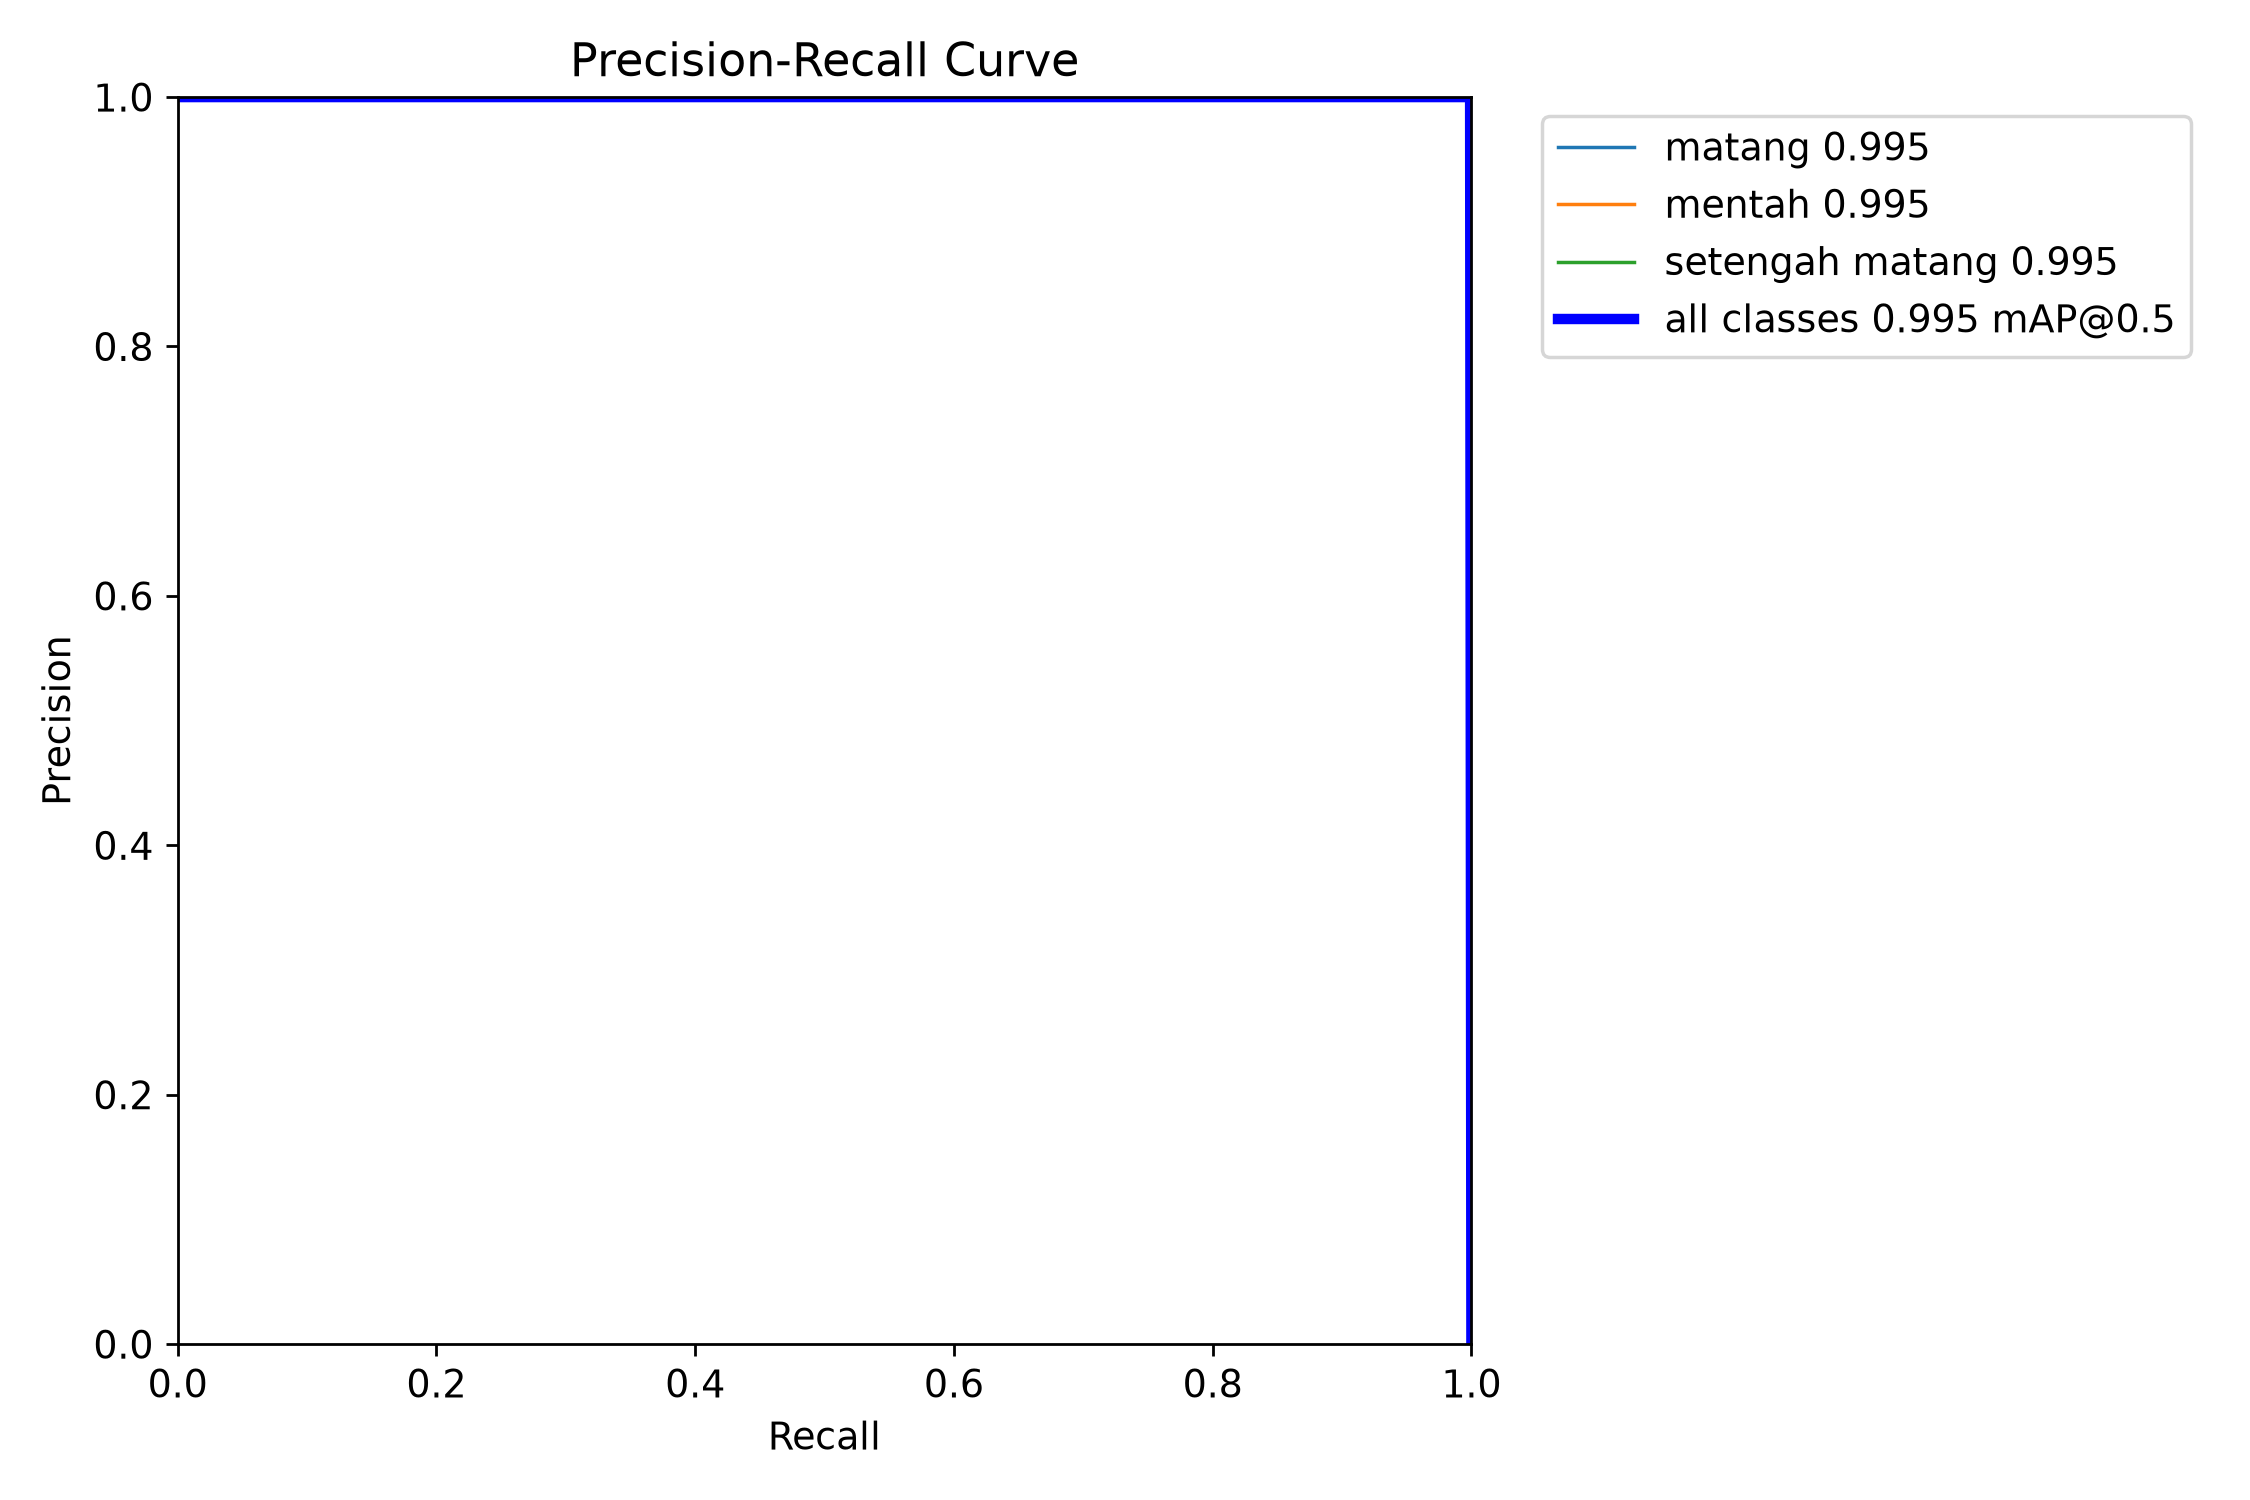
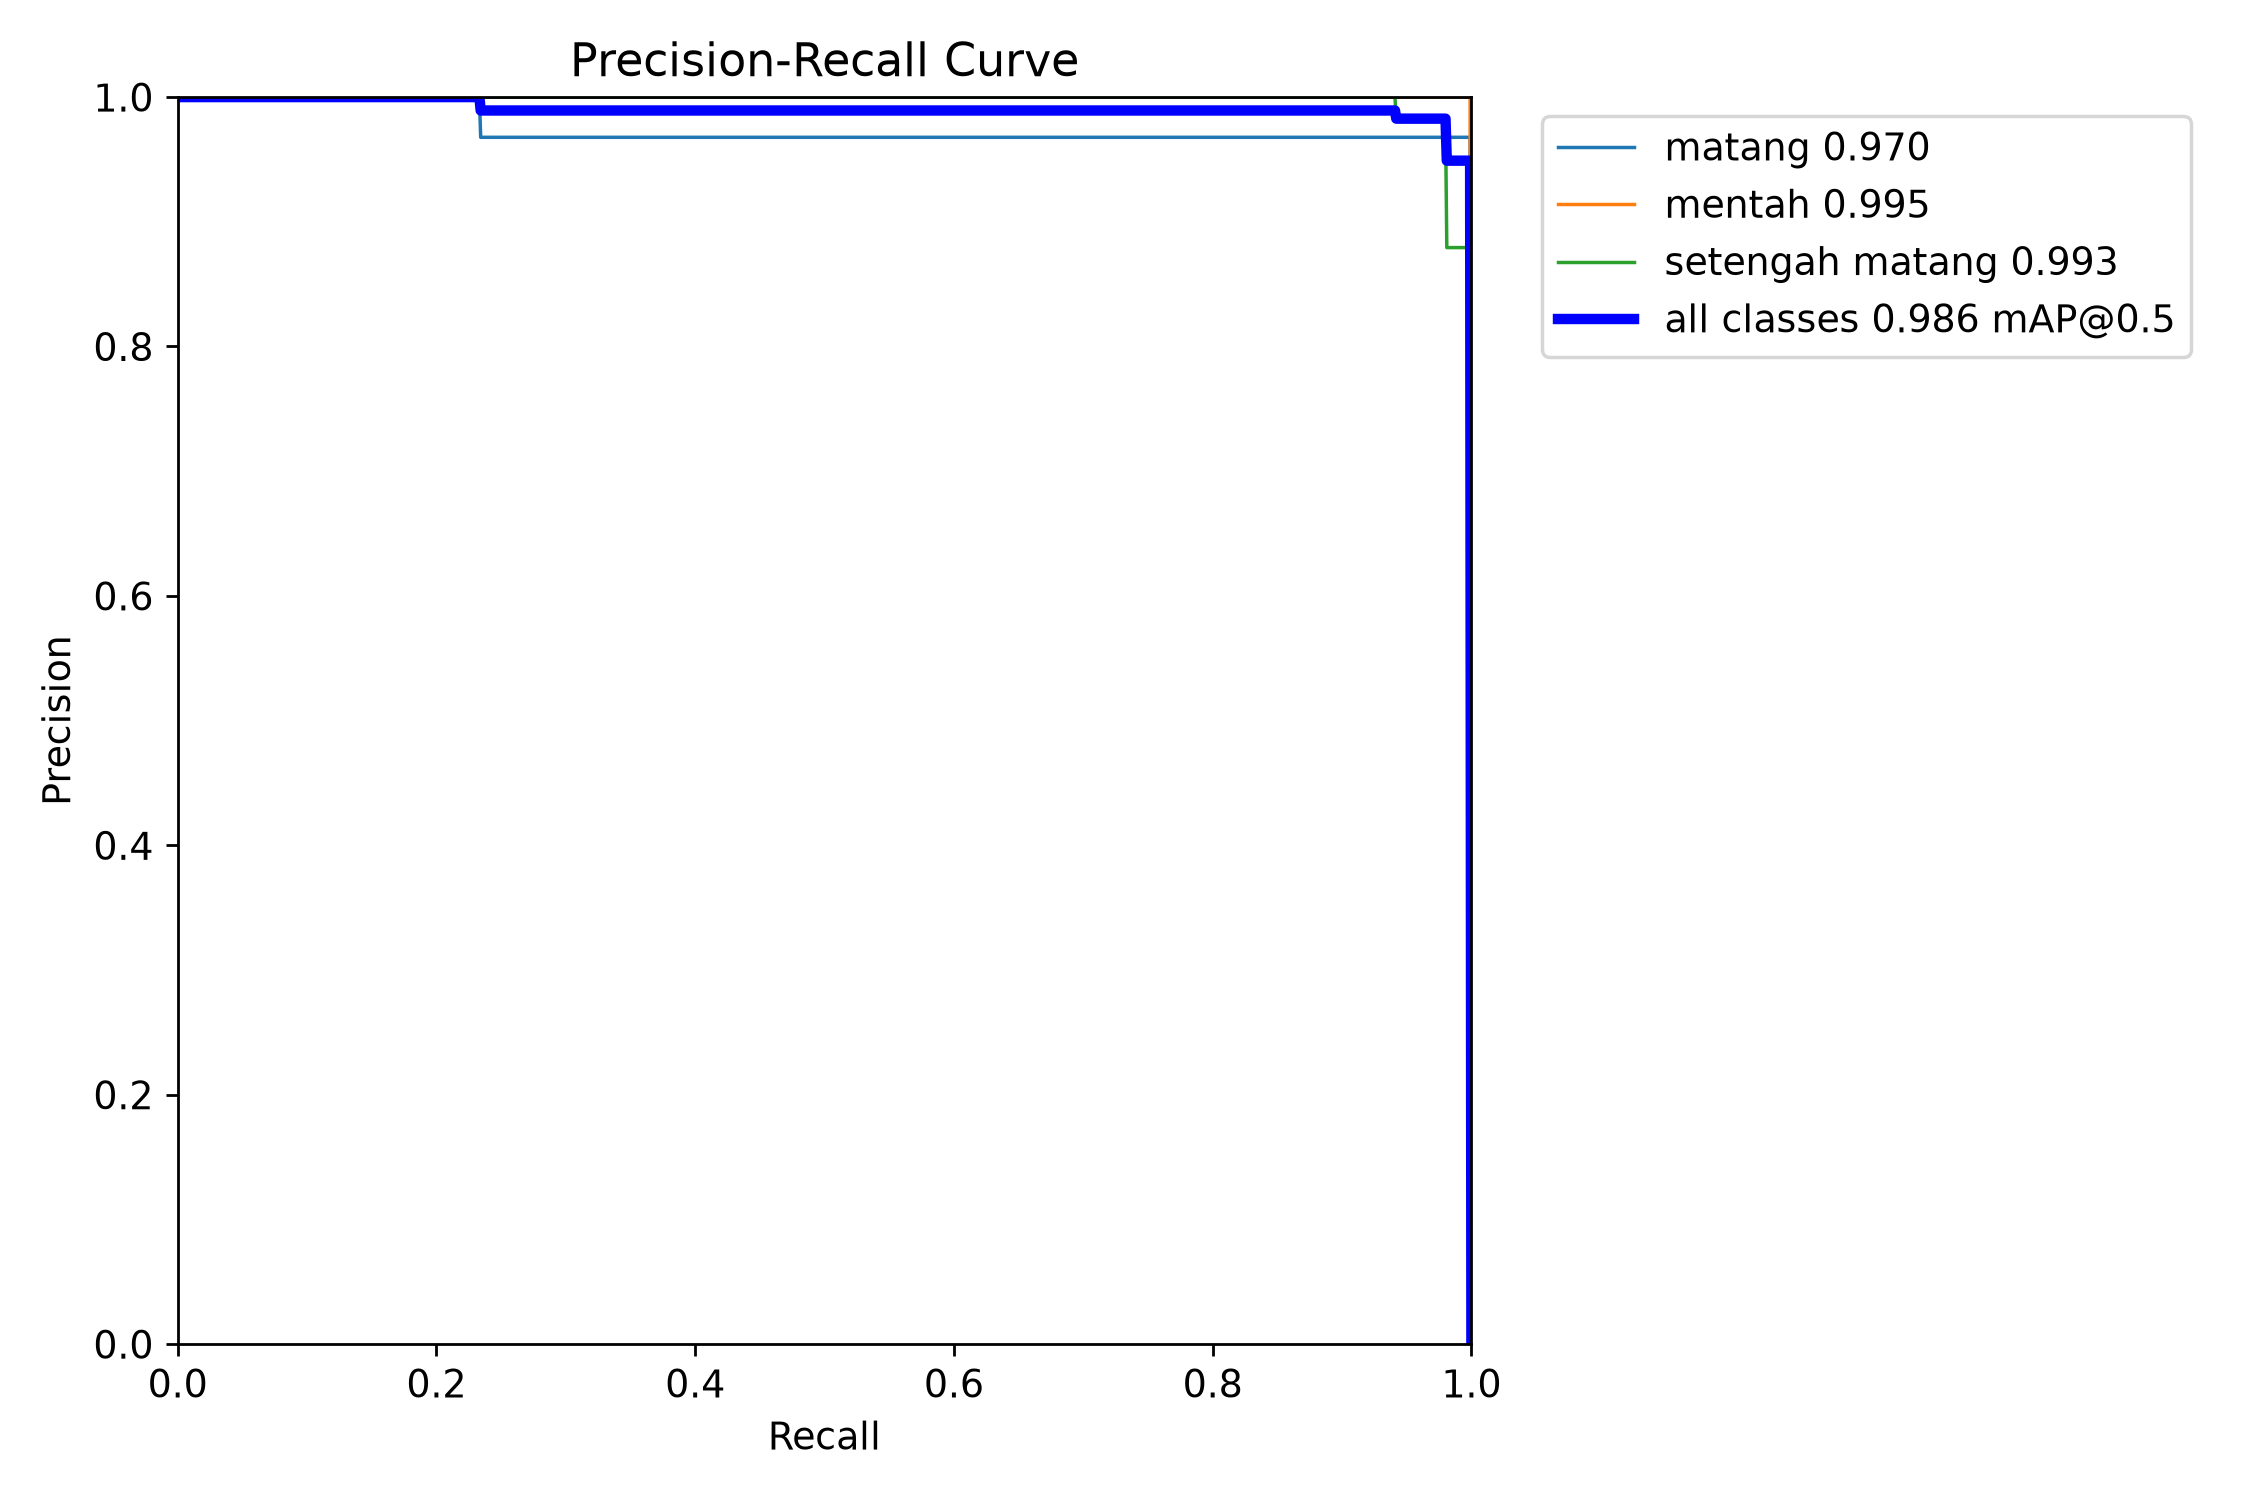
README: tampilkan hasil training (confusion matrix, kurva, contoh prediksi)
Gambar docs/training diganti dengan evaluasi model aktif terhadap 125 foto
uji dari pembagian val yang stabil.

Claude-Session: https://claude.ai/code/session_01Rhras1qoX75YsKQq5FWxxM

Changed region(s): [[0.1867, 0.0613, 0.6533, 0.1227], [0.84, 0.092, 0.8711, 0.1227]]

diff --git a/README.md b/README.md
@@ -88,6 +88,43 @@ Model `best.pt` (3 kelas). Contoh deteksi pada belt:
 **Performa di Pi 5** (CPU, 4 thread): imgsz 480 ≈ **5 FPS**, imgsz 320 ≈ **10 FPS**.
 Bisa ~2× lebih cepat dengan export NCNN.
 
+### 📊 Hasil Training
+
+Evaluasi model aktif (training 23 Sep 2026, imgsz 416) pada **125 foto uji**:
+
+| Kelas | Jumlah | Precision | Recall | mAP50 | mAP50-95 |
+|---|---|---|---|---|---|
+| **Semua** | 125 | 97.2% | 96.9% | 98.6% | 75.6% |
+| `matang` | 30 | 91.5% | 100% | 97.0% | 73.7% |
+| `mentah` | 44 | 100% | 99.6% | 99.5% | 77.4% |
+| `setengah matang` | 51 | 100% | 91.1% | 99.3% | 75.6% |
+
+<p align="center">
+  <img src="docs/training/confusion_matrix.png" width="49%" alt="Confusion matrix">
+  <img src="docs/training/confusion_matrix_normalized.png" width="49%" alt="Confusion matrix (normalized)">
+</p>
+
+Cara membaca: kolom = kelas **sebenarnya**, baris = **tebakan model**. Diagonal = benar.
+Kesalahan terbanyak ada pada `setengah matang` yang kadang dikira `matang` (2) atau
+`mentah` (3); kolom *background* = deteksi palsu, dan tidak ada buah yang terlewat.
+
+<p align="center">
+  <img src="docs/training/BoxPR_curve.png" width="49%" alt="Kurva Precision-Recall">
+  <img src="docs/training/BoxF1_curve.png" width="49%" alt="Kurva F1">
+</p>
+
+Contoh foto uji — label anotasi (kiri) vs prediksi model (kanan):
+
+<p align="center">
+  <img src="docs/training/val_labels.jpg" width="49%" alt="Label anotasi">
+  <img src="docs/training/val_pred.jpg" width="49%" alt="Prediksi model">
+</p>
+
+> ⚠ Model ini dilatih sebelum pembagian data uji dibuat stabil, sehingga sebagian
+> foto uji mungkin pernah terlihat saat training — angka di atas **cenderung sedikit
+> terlalu tinggi**. Hasil setiap training baru (confusion matrix, metrik per kelas,
+> grafik per epoch, log) tampil langsung di web: **tab Training → Riwayat Training → klik run**.
+
 ---
 
 ## ⚙ Alur Kerja (State Machine)

diff --git a/docs/training/README.md b/docs/training/README.md
@@ -1,28 +1,8 @@
-# Hasil Evaluasi Model (Confusion Matrix)
+# Hasil Training
 
-> **Catatan (2026-09-28):** angka di halaman ini **terlalu tinggi** dan hanya
-> disimpan sebagai arsip. Saat evaluasi ini dibuat, pembagian train/val masih
-> diacak ulang setiap training, sehingga model sudah pernah melihat sebagian
-> foto uji. Pembagian sekarang stabil (berdasarkan nama file) dan hasil tiap
-> training — termasuk confusion matrix — bisa dilihat langsung di web:
-> **tab Training → Riwayat Training → klik salah satu run**.
+Gambar di folder ini adalah hasil evaluasi model aktif (`core/best.pt`, training
+23 Sep 2026) terhadap 125 foto uji, dan ditampilkan di bagian
+**📊 Hasil Training** pada [README utama](../../README.md#-hasil-training).
 
-Model: `core/best.pt` (YOLOv8, 3 kelas: `matang`, `mentah`, `setengah matang`)
-Dataset validasi: `core/dataset/_build` (111 gambar val, pembagian lama)
-
-## Ringkasan metrik (arsip)
-
-| Kelas            | Precision | Recall | mAP50 | mAP50-95 |
-|------------------|-----------|--------|-------|----------|
-| all              | 0.980     | 0.991  | 0.995 | 0.764    |
-| matang           | 0.980     | 1.000  | 0.995 | 0.800    |
-| mentah           | 0.959     | 1.000  | 0.995 | 0.752    |
-| setengah matang  | 1.000     | 0.973  | 0.995 | 0.738    |
-
-## Confusion Matrix
-
-![Confusion Matrix](confusion_matrix.png)
-
-![Confusion Matrix (Normalized)](confusion_matrix_normalized.png)
-
-![Precision-Recall Curve](BoxPR_curve.png)
+Hasil setiap training baru tersimpan otomatis di `core/runs/<run>/` (10 run
+terakhir) dan bisa dilihat di web: **tab Training → Riwayat Training → klik run**.
